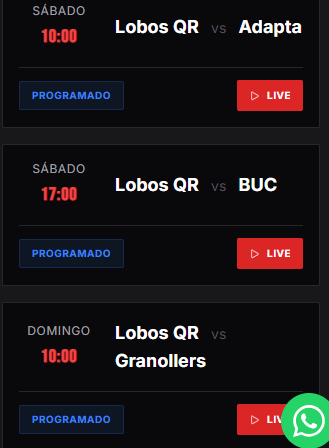
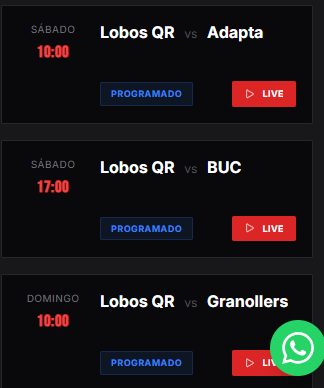
Layout unificado competicoes: horizontal no PC, vertical inteligente no mobile

diff --git a/frontend/src/pages/Competitions.jsx b/frontend/src/pages/Competitions.jsx
@@ -58,7 +58,6 @@ export default function Competitions() {
               )}
               
               <div className={`p-5 md:p-8 ${j.bannerUrl ? '-mt-12 relative z-10' : ''}`}>
-                {/* Header da Jornada */}
                 <div className="mb-6 md:mb-8 border-b border-zinc-800 pb-6">
                   <p className="text-red-500 font-bold tracking-widest text-xs uppercase mb-2">{j.competicion}</p>
                   <h2 className="font-display text-2xl md:text-4xl text-white mb-3">Jornada {j.numero}</h2>
@@ -74,41 +73,36 @@ export default function Competitions() {
                   </div>
                 </div>
 
-                {/* Partidos - Layout Mobile-First REFEITO */}
                 <div className="space-y-4">
                   {j.partidos.map((p, idx) => (
-                    <div key={idx} className="bg-zinc-950 border border-zinc-800 rounded-sm overflow-hidden">
+                    <div key={idx} className="bg-zinc-950 border border-zinc-800 rounded-sm">
                       <div className="p-4 md:p-5">
-                        {/* MOBILE: Empilhado vertical | DESKTOP: Horizontal */}
-                        <div className="flex flex-col gap-4">
+                        {/* Layout FLEXÍVEL: Horizontal no PC, Vertical no Mobile */}
+                        <div className="flex flex-col md:flex-row md:items-center gap-3 md:gap-4">
                           
-                          {/* Linha 1: Horário + Confronto */}
-                          <div className="flex items-start gap-3">
-                            <div className="text-center min-w-[70px] shrink-0">
-                              <p className="text-zinc-500 text-[10px] uppercase tracking-wider mb-1">{p.diaSemana}</p>
-                              <p className="text-red-500 text-base md:text-lg font-display font-bold">{p.horario || 'TBD'}</p>
-                            </div>
-                            <div className="flex-grow min-w-0">
-                              <h3 className="text-base md:text-xl font-bold text-white leading-tight break-words">
-                                Lobos QR <span className="text-zinc-600 mx-1.5 text-xs md:text-sm font-normal">vs</span> {p.rival}
-                              </h3>
-                            </div>
+                          {/* COLUNA 1: Horário */}
+                          <div className="text-center md:text-left min-w-[70px] md:min-w-[80px] shrink-0">
+                            <p className="text-zinc-500 text-[10px] uppercase tracking-wider mb-1">{p.diaSemana}</p>
+                            <p className="text-red-500 text-base md:text-lg font-display font-bold">{p.horario || 'TBD'}</p>
                           </div>
 
-                          {/* Linha 2: Status/Resultado/Link */}
-                          <div className="flex items-center justify-between gap-3 pl-[82px] md:pl-0">
+                          {/* COLUNA 2: Confronto */}
+                          <div className="flex-grow min-w-0">
+                            <h3 className="text-base md:text-xl font-bold text-white leading-tight">
+                              Lobos QR <span className="text-zinc-600 mx-1.5 text-xs md:text-sm font-normal">vs</span> {p.rival}
+                            </h3>
+                          </div>
+
+                          {/* COLUNA 3: Status/Placar + Live */}
+                          <div className="flex items-center gap-2 md:gap-3 shrink-0">
                             {p.status === 'FINALIZADO' ? (
-                              <div className="flex items-center gap-2 md:gap-3 bg-zinc-900 px-3 md:px-4 py-1.5 md:py-2 rounded-sm border border-zinc-800">
-                                <div className="text-center">
-                                  <p className={`font-display text-lg md:text-2xl font-bold ${p.lobosScore > p.rivalScore ? 'text-green-500' : 'text-white'}`}>{p.lobosScore}</p>
-                                </div>
-                                <span className="text-zinc-700 font-display text-lg md:text-xl">-</span>
-                                <div className="text-center">
-                                  <p className={`font-display text-lg md:text-2xl font-bold ${p.rivalScore > p.lobosScore ? 'text-green-500' : 'text-white'}`}>{p.rivalScore}</p>
-                                </div>
+                              <div className="flex items-center gap-2 bg-zinc-900 px-3 py-1.5 rounded-sm border border-zinc-800">
+                                <span className={`font-display text-lg font-bold ${p.lobosScore > p.rivalScore ? 'text-green-500' : 'text-white'}`}>{p.lobosScore}</span>
+                                <span className="text-zinc-700">-</span>
+                                <span className={`font-display text-lg font-bold ${p.rivalScore > p.lobosScore ? 'text-green-500' : 'text-white'}`}>{p.rivalScore}</span>
                               </div>
                             ) : (
-                              <span className={`px-2.5 md:px-3 py-1 md:py-1.5 border text-[9px] md:text-xs font-bold uppercase tracking-wider rounded-sm whitespace-nowrap ${
+                              <span className={`px-3 py-1.5 border text-[10px] md:text-xs font-bold uppercase tracking-wider rounded-sm whitespace-nowrap ${
                                 p.status === 'CANCELADO' ? 'bg-red-500/10 text-red-500 border-red-500/20' : 'bg-blue-500/10 text-blue-500 border-blue-500/20'
                               }`}>
                                 {p.status}
@@ -120,11 +114,11 @@ export default function Competitions() {
                                 href={p.youtubeLink} 
                                 target="_blank" 
                                 rel="noopener noreferrer"
-                                className="flex items-center gap-1.5 md:gap-2 px-3 md:px-4 py-1.5 md:py-2 bg-red-600 text-white text-[9px] md:text-xs font-bold uppercase tracking-wider rounded-sm hover:bg-red-700 transition-colors shrink-0"
+                                className="flex items-center gap-1.5 px-3 py-1.5 bg-red-600 text-white text-[10px] md:text-xs font-bold uppercase tracking-wider rounded-sm hover:bg-red-700 transition-colors"
                               >
-                                <Icon path="M5.25 5.653c0-.856.917-1.398 1.667-.986l11.54 6.348a1.125 1.125 0 010 1.971l-11.54 6.347a1.125 1.125 0 01-1.667-.985V5.653z" className="w-3 h-3 md:w-4 md:h-4" />
-                                <span className="hidden sm:inline">Ver en vivo</span>
-                                <span className="sm:hidden">Live</span>
+                                <Icon path="M5.25 5.653c0-.856.917-1.398 1.667-.986l11.54 6.348a1.125 1.125 0 010 1.971l-11.54 6.347a1.125 1.125 0 01-1.667-.985V5.653z" className="w-3 h-3" />
+                                <span className="hidden lg:inline">Ver en vivo</span>
+                                <span className="lg:hidden">Live</span>
                               </a>
                             )}
                           </div>
